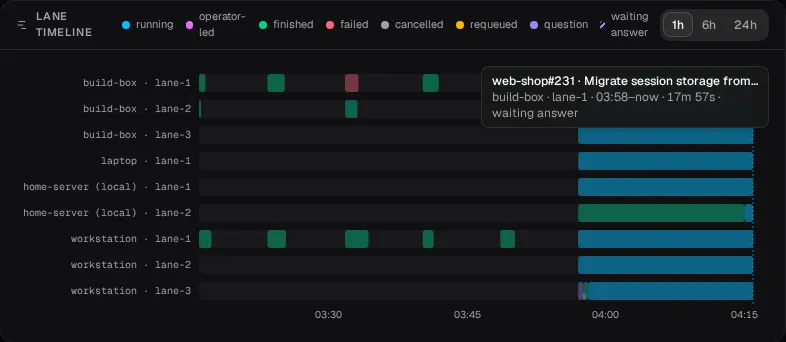
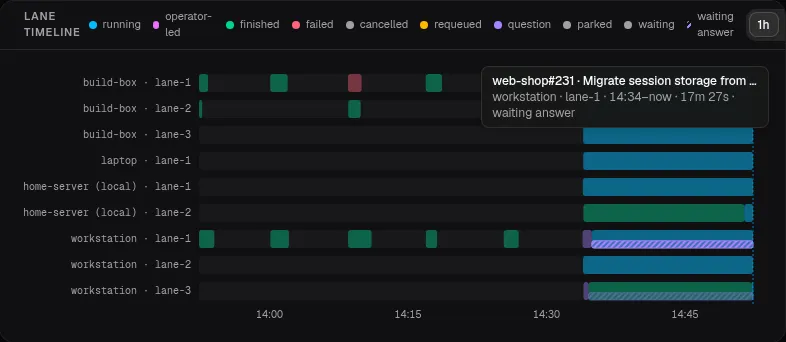
Screenshots: capture every shot again from the current build (issue #2334)
All screenshots come from a fresh run of npm run screenshots. New shots:
Needs you and Usage, shown in the README. The question shot fills the
first answer box, as the view now shows one per question. The capture
shows the demo executor as one that can park, as real agent executors
can, so the lanes show Park. SCREENSHOTS_CHROMIUM names a Chromium of
the system.

diff --git a/scripts/screenshots/capture.ts b/scripts/screenshots/capture.ts
@@ -1,7 +1,8 @@
 // `npm run screenshots` (issue #353): starts the busy demo hopper (demo.ts), photographs its UI with
 // Playwright's Chromium, and writes every screenshot to docs/screenshots as WebP — the README, the install
 // docs and the Pages site's tour (site/tour.ts) show them. Re-run it when the UI changes.
-// Needs the built UI (`npm run build:ui`), Chromium for Playwright (`npx playwright install chromium`) and
+// Needs the built UI (`npm run build:ui`), Chromium for Playwright (`npx playwright install chromium`, or a Chromium
+// of the system named by SCREENSHOTS_CHROMIUM, for example /usr/bin/chromium) and
 // Postgres: HOPPER_TEST_POSTGRES_URL, else a throwaway container as `npm test` starts one (docker).
 // SHOTS=queue,job limits the run to those shots.
 import { mkdirSync } from 'node:fs';
@@ -51,12 +52,14 @@ const SHOTS: Shot[] = [
     name: 'question', viewport: { width: 1440, height: 760 },
     async go(page) {
       await view('#questions')(page);
-      await page.getByPlaceholder('Answer to type into the job').fill('Add the grace period: read both stores for a week, then drop the old table in a follow-up.');
+      await page.getByPlaceholder('Answer to type into the job').first().fill('Add the grace period: read both stores for a week, then drop the old table in a follow-up.');
       await settle(page, 300);
     },
   },
   { name: 'machines', viewport: { width: 1440, height: 960 }, go: view('#machines') },
   { name: 'sources', viewport: { width: 1440, height: 820 }, go: view('#sources') },
+  { name: 'needs-you', viewport: { width: 1440, height: 900 }, go: view('#needs-you') },
+  { name: 'usage', viewport: { width: 1440, height: 900 }, go: view('#usage') },
   { name: 'settings', go: view('#settings/routing') },
   { name: 'job-rules', go: view('#settings/job-rules') },
   { name: 'plugins', go: view('#settings/plugins') },
@@ -66,8 +69,18 @@ const SHOTS: Shot[] = [
   { name: 'phone-question', viewport: PHONE, scale: 2, go: view('#questions') },
 ];
 
-/** The page reaches the demo hopper and nothing else. */
-const sealed = (context: BrowserContext) => context.route((url) => url.hostname !== '127.0.0.1', (route) => route.abort());
+/**
+ * The page reaches the demo hopper and nothing else. The demo's scripted executor cannot park a job, where the agent
+ * executors of a real hopper can: its health says it can, so the lanes show Park as a real hopper's do.
+ */
+async function sealed(context: BrowserContext): Promise<void> {
+  await context.route((url) => url.hostname !== '127.0.0.1', (route) => route.abort());
+  await context.route((url) => url.pathname === '/api/health', async (route) => {
+    const response = await route.fetch();
+    const health = await response.json() as { parkingExecutors?: string[] };
+    await route.fulfill({ response, json: { ...health, parkingExecutors: [...(health.parkingExecutors ?? []), 'scripted'] } });
+  });
+}
 
 /** The Postgres the demo keeps its data in: HOPPER_TEST_POSTGRES_URL, else a throwaway container (as `npm test`). */
 async function postgres(): Promise<() => Promise<void>> {
@@ -124,7 +137,7 @@ const only = process.env.SHOTS?.split(',').filter(Boolean);
 mkdirSync(OUT, { recursive: true });
 const stopPostgres = await postgres();
 const demo = await startDemo({ log: (s) => console.log(s) });
-const browser = await chromium.launch();
+const browser = await chromium.launch({ executablePath: process.env.SCREENSHOTS_CHROMIUM || undefined });
 try {
   const token = await demo.app.login();
   // The film first: the demo's short jobs end during it (demo.ts LIVE).

diff --git a/README.md b/README.md
@@ -241,6 +241,11 @@ order or reject it:
 
 <img src="docs/screenshots/queue-order.webp" width="720" alt="The Queue view: the queue gate set to review, three held jobs in the pre-sort with Accept and Reject, and the accepted jobs in the user's order.">
 
+**Needs you** lists every decision that waits on you, by kind: Intake, access requests, questions, proposals,
+research, logins, failures and more. Each row opens the page where you act on it:
+
+<img src="docs/screenshots/needs-you.webp" width="720" alt="The Needs you view: each kind of decision that waits on a person with its count, two questions, one of high priority, and two failures.">
+
 ## Add machines
 
 A **machine** runs jobs. Each has **lanes**: how many jobs it runs at once. A job goes to a machine
@@ -260,6 +265,13 @@ machine online or offline; the daemon's log says why one is offline
 (`journalctl --user -u hopper`).
 
 <img src="docs/screenshots/machines.webp" width="720" alt="The Machines view: four online machines, each with its lanes and live usage of the session and the week.">
+
+**Usage throttling.** The **Usage** view shows how much of each account's plan the machines used, and the soft and
+hard limits. Below the soft limit every lane is open; from it, each machine keeps fewer lanes; at the hard limit
+nothing new starts. The view names the window that throttles, for example `46% session`. Help: [Lanes and lane
+tuning](https://henningfutrell.github.io/hopper/help/lanes.html#usage-limits).
+
+<img src="docs/screenshots/usage.webp" width="720" alt="The Usage view: the usage limits panel at 46% session, every lane open, the last day's usage over the free, soft and hard bands, and each machine's lanes.">
 
 **Machine defaults.** A machine added in the Machines view starts with the machine defaults: its
 lanes and the executors it runs (one lane and `herdr-claude` until you change them). Change them
